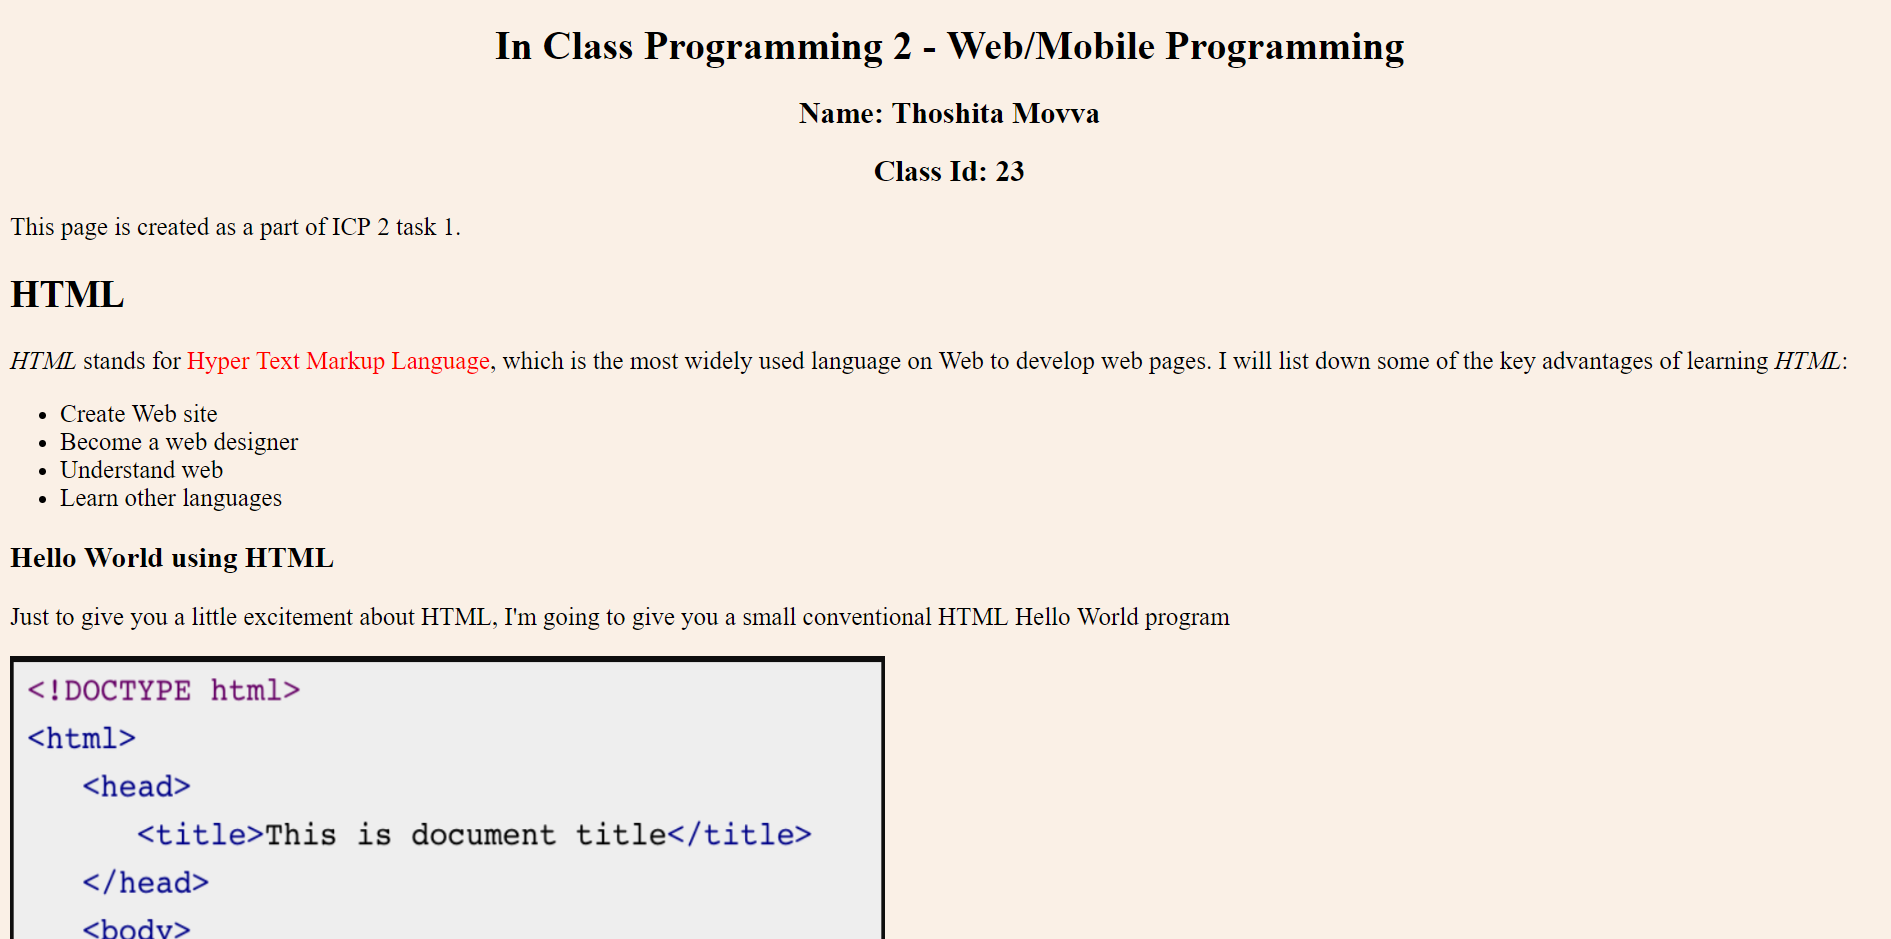
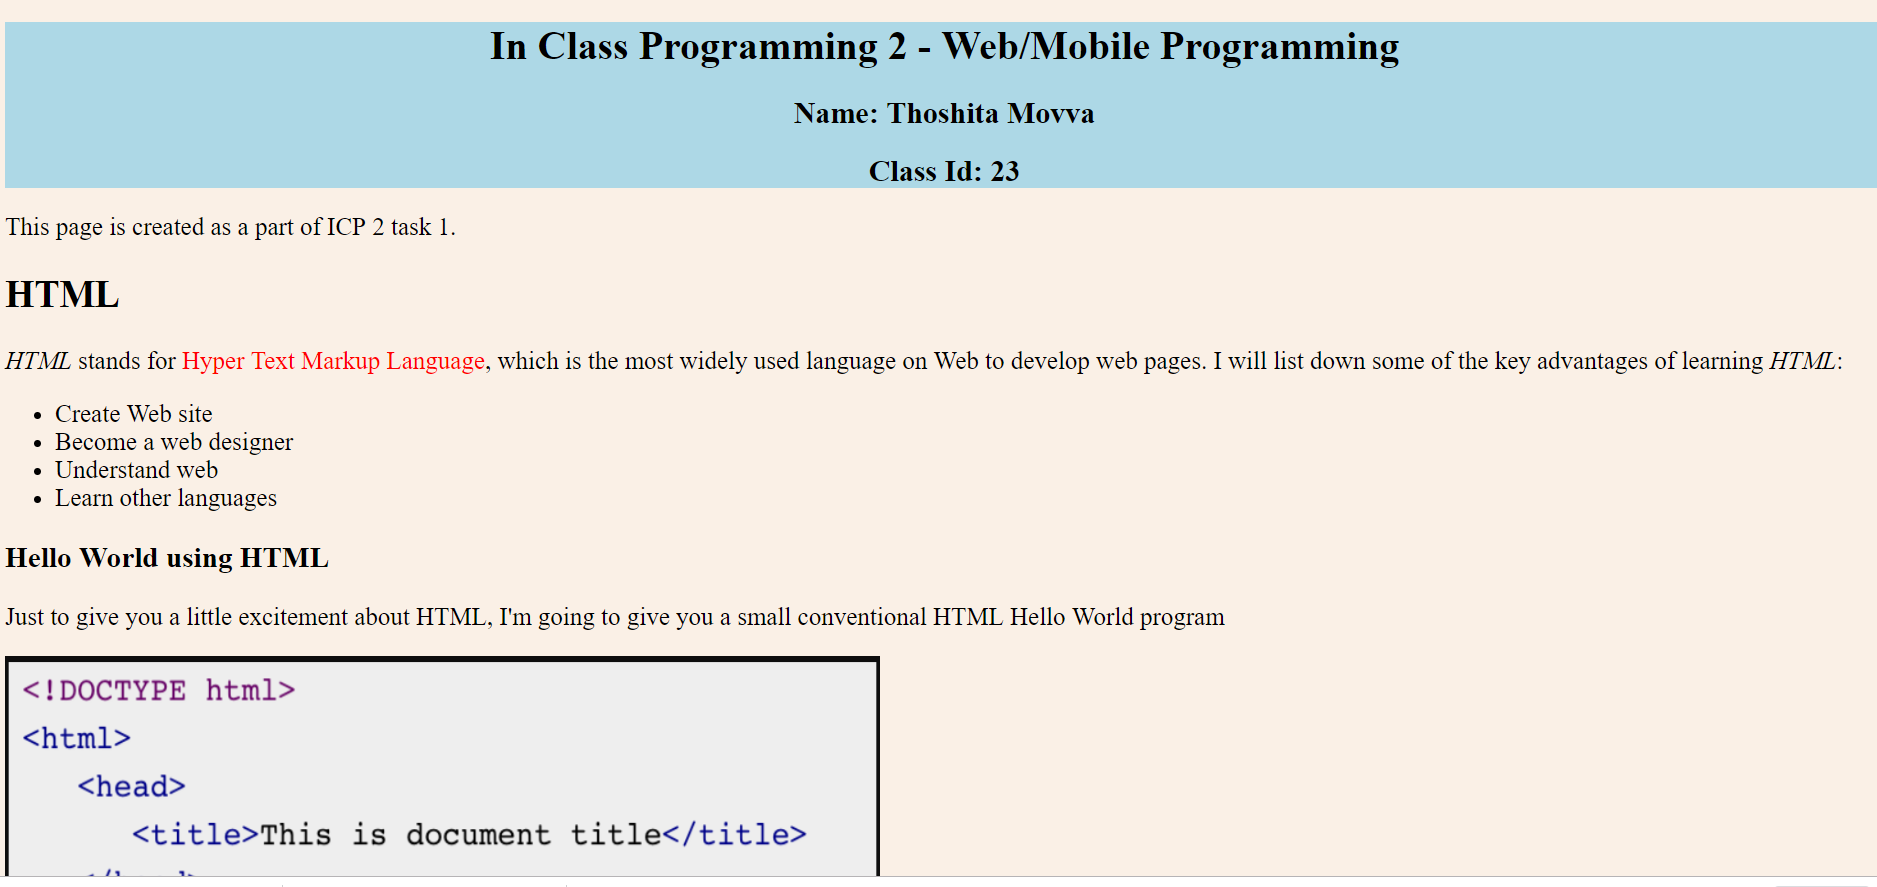
ICP 2

Changed region(s): [[0.0, 0.0, 1.0, 1.0], [0.4635, 0.9741, 1.0, 1.0]]

diff --git a/Source/ICP 2/ICP HTML 2.1.html b/Source/ICP 2/ICP HTML 2.1.html
@@ -7,9 +7,11 @@
 </head>
 <body>
 <div class="heading">
+    <div style="background-color:lightblue">
     <h1>In Class Programming 2 - Web/Mobile Programming</h1>
     <h2>Name: Thoshita Movva</h2>
     <h2>Class Id: 23</h2>
+    </div>
 </div>
 <div class="container">
     <p>This page is created as a part of ICP 2 task 1.</p>
@@ -22,12 +24,14 @@
         <li>Understand web</li>
         <li>Learn other languages</li>
     </ul>
+    </div>
 </div>
 <div class="container">
     <h3>Hello World using HTML</h3>
     <p>Just to give you a little excitement about HTML, I'm going to give you a small conventional HTML Hello World program</p>
-    <a target="_blank" href="https://raw.githubusercontent.com/ThoshitaMovva/Web-Mobile-Programming/master/Documentation/ICP%202/ICP%202.1/2.1.PNG">
-        <img style="width:700px; height: 400px" src="https://raw.githubusercontent.com/ThoshitaMovva/Web-Mobile-Programming/master/Documentation/ICP%202/ICP%202.1/2.1.PNG"/>
+    <a href="https://raw.githubusercontent.com/ThoshitaMovva/Web-Mobile-Programming/master/Documentation/ICP%202/ICP%202.1/2.1.PNG">Click to view Program</a>
+    <!--a target="_blank" href="https://raw.githubusercontent.com/ThoshitaMovva/Web-Mobile-Programming/master/Documentation/ICP%202/ICP%202.1/2.1.PNG"-->
+        <!--img style="width:700px; height: 400px" src="https://raw.githubusercontent.com/ThoshitaMovva/Web-Mobile-Programming/master/Documentation/ICP%202/ICP%202.1/2.1.PNG"/-->
     </a>
 </div>
 <div class="container">
@@ -44,12 +48,14 @@
 <div class="container">
     <h3>HTML Tutorial</h3>
     <p>Following is the  <span class="highlight">Youtube</span> video to learn HTML</p>
-    <p><iframe width="650" height="400" src="https://www.youtube.com/embed/UB1O30fR-EE" frameborder="0" allow="accelerometer; autoplay; encrypted-media; gyroscope; picture-in-picture" allowfullscreen></iframe></p>
+    <a href="https://youtu.be/UB1O30fR-EE">Youtube Link</a>
+    <!--p><iframe width="650" height="400" src="https://www.youtube.com/embed/UB1O30fR-EE" frameborder="0" allow="accelerometer; autoplay; encrypted-media; gyroscope; picture-in-picture" allowfullscreen></iframe></p-->
 </div>
 <div class="container">
     <h3>In class programming - Task 2: Google Page </h3>
-    <a target="_blank" href="https://github.com/ThoshitaMovva/Web-Mobile-Programming/raw/master/Documentation/ICP%202/ICP%202.1/Google.png">
-        <img style="width:700px; height: 400px" src="https://github.com/ThoshitaMovva/Web-Mobile-Programming/raw/master/Documentation/ICP%202/ICP%202.1/Google.png"/>
+    <!--a target="_blank" href="https://github.com/ThoshitaMovva/Web-Mobile-Programming/raw/master/Documentation/ICP%202/ICP%202.1/Google.png"-->
+    <a href="https://github.com/ThoshitaMovva/Web-Mobile-Programming/raw/master/Documentation/ICP%202/ICP%202.1/Google.png">Google Link</a>
+        <!--img style="width:700px; height: 400px" src="https://github.com/ThoshitaMovva/Web-Mobile-Programming/raw/master/Documentation/ICP%202/ICP%202.1/Google.png"/-->
     </a>
 </div>
 </body>
